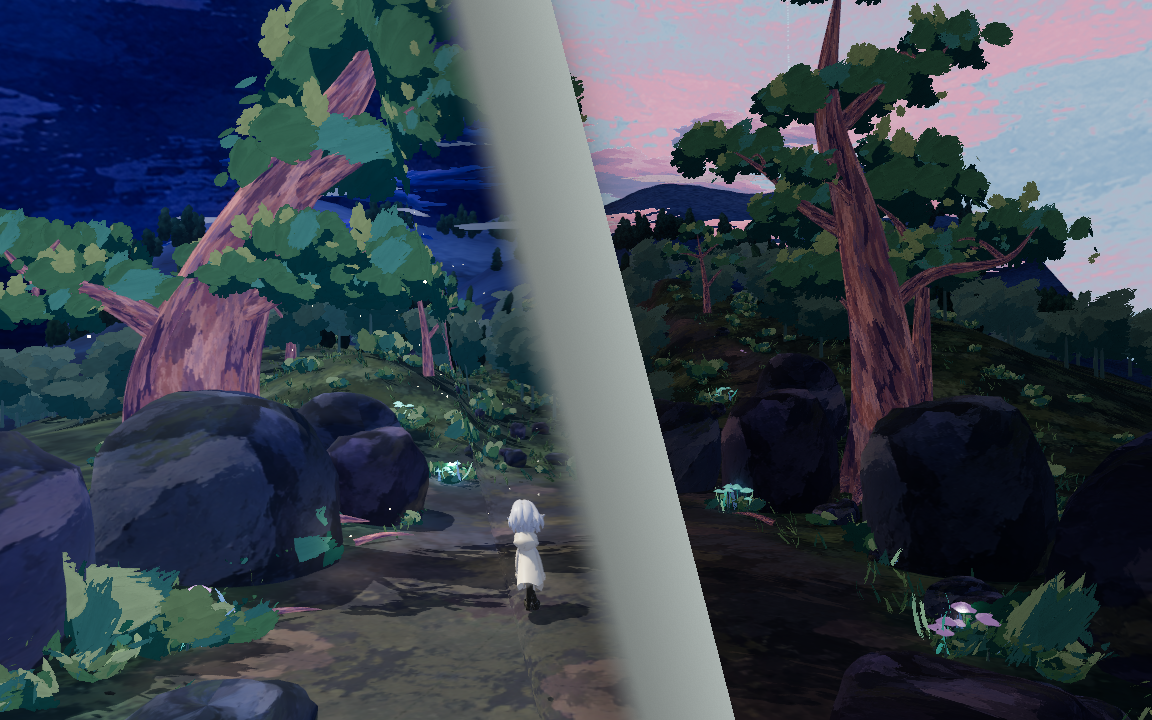
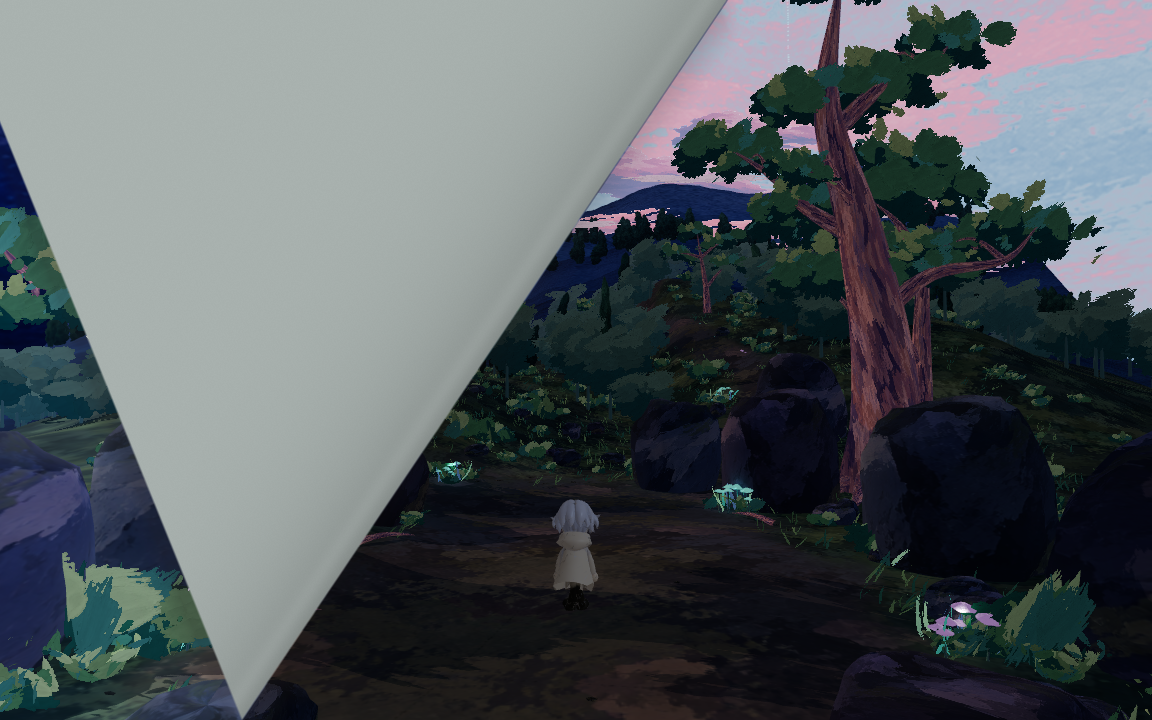
Wait for each chapter CTA and turn every page from the right corner

diff --git a/docs/3d_game/OVERWORLD_INTEGRATION.md b/docs/3d_game/OVERWORLD_INTEGRATION.md
@@ -12,10 +12,17 @@ The supporting copy reads “Draw something, help someone, and have fun ✨”.
 The existing forward exits in Chapters 1–4 return to the map. The page turn
 reveals a close view of the chapter just completed. As the camera pulls back,
 the Moonlit Wanderer walks along the painted route to the next chapter. After
-arrival the camera zooms in and automatically turns into the playable scene.
-There are no confirmation or inspection controls on these later journeys.
+arrival the camera zooms in and shows **Next page →**. The player decides when
+to enter; it never advances just because time passes. While waiting, the scroll
+wheel, trackpad magnify gesture, slider and **You / Map** buttons smoothly zoom
+between the current chapter closeup and full-map view. The slider and buttons
+retain keyboard/controller focus navigation. Zoom cannot exceed either bound.
 
-This user playtest revision supersedes the earlier Next page requirement.
+This September 14 revision supersedes the temporary automatic-entry behavior.
+Every page lifts from the bottom-right toward the upper-left. Scene-to-map,
+map-to-scene and ending turns share one shader and one physical fold angle;
+there is no mirrored return direction. The reflected page bounds create a
+lifting corner with a shaded paper underside and a soft cast shadow.
 
 | Journey | Map appearance |
 | --- | --- |
@@ -84,6 +91,8 @@ textures. This integration creates no additional generated art or paid calls.
 ![Sunset map](assets/overworld/sunset.png)
 ![Night map](assets/overworld/night.png)
 ![Opening hero closeup and Start](assets/overworld/start.png)
+![Waiting for the next chapter](assets/overworld/next-page.png)
+![Browsing the full map before entry](assets/overworld/browse.png)
 ![Returning from a chapter to the map](assets/overworld/page-turn.png)
 
 ## Structure and recovery
@@ -91,7 +100,7 @@ textures. This integration creates no additional generated art or paid calls.
 - `Journey` autoload owns the guarded page/map/stage sequence and a temporary
   outgoing-frame texture. It does not own encounter completion or AI jobs.
 - The overworld scene owns route travel, camera composition, time blending and
-  the opening Start CTA.
+  chapter CTAs and bounded map browsing.
 - `river_level.gd` and the shared `path_exit.gd` route forward exits through
   `Journey.travel_to()`. Ending restart calls `Journey.start_intro()`.
 - The destination loads in the background while the map plays. The outgoing
@@ -103,7 +112,7 @@ textures. This integration creates no additional generated art or paid calls.
 
 The intro takes approximately three seconds to reach the Start CTA. Route walks take at least
 3.4 seconds, with a 1.8-second pullback, a 3.2-second time change when applicable,
-and a 1.65-second arrival zoom. Page curls last 0.95 seconds. The Start screen has no
+and a 1.65-second arrival zoom. Page curls last 0.95 seconds (1.65 seconds for the ending). Chapter CTAs have no
 time limit. `duration_scale` is a test seam; production defaults to 1.0.
 
 ## Verification
@@ -111,20 +120,27 @@ time limit. `duration_scale` is a test seam; production defaults to 1.0.
 Validation uses Godot 4.7.2 Standard. All generation checks use offline fixtures.
 
 - `overworld_smoke.gd`: holds the opening closeup until Start, keyboard activation,
-  duplicate activation guards, all four later journeys completing without input,
+  duplicate activation guards, all four later journeys waiting for confirmation,
+  zoom bounds and closeup/full-map composition,
   correct time changes, simultaneous art animations, scene cleanup, and a fresh
   Start screen after restarting from night.
 - Existing river-to-woodland, woodland, Wind Hill and Sunset Cove exit checks
-  cross their real gameplay boundaries and await automatic map transitions.
+  cross their real gameplay boundaries, await map travel and explicitly confirm
+  the chapter CTA.
 - Ending checks include explicit Start confirmation after **Begin a new journey**.
 - `overworld_visual.gd`: native Forward Plus renders of all three map times and
   the Start CTA at 1152×720 and 850×720.
 - `overworld_transition_visual.gd`: real mouse activation of Start, both page-turn
-  directions, the intermediate sunset blend and automatic later chapters.
+  contexts with a consistent angle, the intermediate sunset blend, later chapter
+  CTAs and full-map browsing. Append `-- --preview` to leave the second
+  chapter’s map CTA open for a manual playtest.
+- `page_corner_smoke.gd`: native rendered-pixel checks for map entry, map return
+  and the ending; the bottom-right reveals first while the left and top-right
+  remain on the outgoing page. This check requires a graphical renderer.
 
-The original integration passed nine flow/encounter/exit suites. This Start CTA
-revision rechecks the overworld flow, four forward exits, ending restart and
-native visual interaction. The river/dog/bird mechanics are unchanged.
+The original integration passed nine flow/encounter/exit suites. The current CTA revision rechecks all five chapter confirmations and zoom
+bounds, ending restart, native map interactions and the rendered turn corner
+for every transition context. The river/dog/bird mechanics are unchanged.
 Desktop screenshots are retained in `assets/overworld/`.
 
 Godot 4.7.2 reports one zero-reference `RefCounted` cleanup warning per threaded

diff --git a/README.md b/README.md
@@ -62,8 +62,11 @@ The opening shows the daylight map and zooms to the protagonist. Click **Start t
 then drops onto the path. The opening waits as long as you need.
 
 After each forward exit in Chapters 1–4, the page turns back to the map, the
-protagonist walks to the next chapter, and the camera zooms in before entering
-automatically. The map changes to sunset before Chapter 3 and night before
+protagonist walks to the next chapter, and the camera zooms in. **Next page →**
+waits for your confirmation. Before entering, use the scroll wheel, trackpad
+pinch, slider or **You / Map** controls to browse between the chapter closeup
+and full map. Every page lifts from the bottom-right toward the upper-left,
+including returns to the map and the ending. The map changes to sunset before Chapter 3 and night before
 Chapter 5. **Begin a new journey** returns to the daylight map and **Start the journey**. See
 [Overworld integration](docs/3d_game/OVERWORLD_INTEGRATION.md) for source assets
 and verification.
@@ -184,7 +187,7 @@ reward timing, and map-boundary changes.
 ## Preview the woodland scene
 
 After crossing the river, keep walking along the far-bank path to its lower-right
-edge to enter the woodland automatically, without a completion dialog. You can also run
+edge to return to the map, then choose **Next page** to enter the woodland. You can also run
 `3d_game/scenes/woodland/woodland_path.tscn` directly in Godot. Stage 2 includes the imported environment, fixed-angle camera, walking/jumping,
 and the dog distraction encounter. UNKNOWN objects render without unlocking the path.
 See [Stage 02 integration](docs/3d_game/STAGE02_INTEGRATION.md) for source ownership and checks.
@@ -195,8 +198,8 @@ animation handling and the temporary jump pose.
 
 ## Preview Wind Hill
 
-In Stage 2, follow the lakeside path to the white birch trees to enter Wind Hill
-automatically, or run
+In Stage 2, follow the lakeside path to the white birch trees to return to the
+map, then choose **Next page** for Wind Hill, or run
 `3d_game/scenes/wind_hill/wind_hill.tscn` directly. Stage 3 includes the supplied
 painted environment, restored textures, terrain collision, the shared protagonist
 and a 16-second wind animation at 80% of the delivered maximum strength.
@@ -206,8 +209,8 @@ See [Stage 03 integration](docs/3d_game/STAGE03_INTEGRATION.md) for asset repair
 ## Preview Sunset Cove
 
 In Stage 3, walk right toward the large rock beside the tree. Reaching its near
-edge automatically enters Stage 4, including when walking beside the path or
-jumping; climbing onto the rock is unnecessary. You can also run
+edge starts the map journey toward Stage 4; choose **Next page** when ready.
+The exit also works while walking beside the path or jumping; climbing onto the rock is unnecessary. You can also run
 `3d_game/scenes/sunset_cove/sunset_cove.tscn` directly. Sunset Cove includes the
 painted beach and cave, collision, the shared protagonist, wind and water motion,
 and live water reflections of the sunset, scenery and character.

diff --git a/docs/SPEC.md b/docs/SPEC.md
@@ -1059,7 +1059,8 @@ small and large drawings should remain prominent without clipping the cover.
 
 ## September 13: Overworld and page turns (#53)
 
-The latest user playtest revision supersedes the earlier **Next page** step.
+The September 14 ticket update restores **Next page** confirmation before
+Chapters 2–5, superseding the temporary automatic-entry playtest revision.
 Start with the full daylight map, zoom to the protagonist at Chapter 1, then
 hold that closeup with one prominent **Start the journey** CTA. Do not enter the river until
 the player confirms. Clicking Start turns into the first scene, after which the
@@ -1067,9 +1068,14 @@ protagonist drops onto the path through the existing spawn physics.
 
 Each forward exit in Chapters 1–4 turns back to the map at the completed
 chapter's closeup. Pull back while the protagonist walks along the painted
-route, then zoom to the next chapter and enter automatically. Later chapters
-require no confirmation or map inspection controls. Existing encounter gates
-still decide when the player can leave.
+route, then zoom to the next chapter and show **Next page →**. Hold until the
+player confirms. While waiting, allow smooth bounded zoom between the current
+chapter closeup and full-map view. Keep the opening **Start the journey** CTA.
+Existing encounter gates still decide when the player can leave.
+
+All page turns lift the bottom-right corner toward the upper-left at one fixed
+physical angle, following the user’s paper reference. Never mirror the turn
+when returning from a scene to the map. Use the same corner for the ending.
 
 Blend daylight into sunset during the Chapter 2-to-3 map journey, and sunset
 into night during Chapter 4-to-5. Keep all other map legs in their current time.

diff --git a/docs/3d_game/ENDING_INTEGRATION.md b/docs/3d_game/ENDING_INTEGRATION.md
@@ -18,7 +18,8 @@ same deferred, duplicate-guarded transition, independently of the walk gate.
 No boss or combat victory is simulated by this integration.
 
 The exit now fades the chapter HUD over 0.45 seconds, then curls the final page
-for 1.65 seconds. A dim dawn lies beneath the outgoing night scene, with a muted
+for 1.65 seconds, lifting from the same bottom-right corner and angle used by
+all map turns. A dim dawn lies beneath the outgoing night scene, with a muted
 paper underside rather than a bright flash. Dawn light rises over 3.6 seconds;
 the victory spread and a soft backdrop fade in over 0.8 seconds. Chapter exits
 and final-page input are guarded against duplicate activation. The destination
